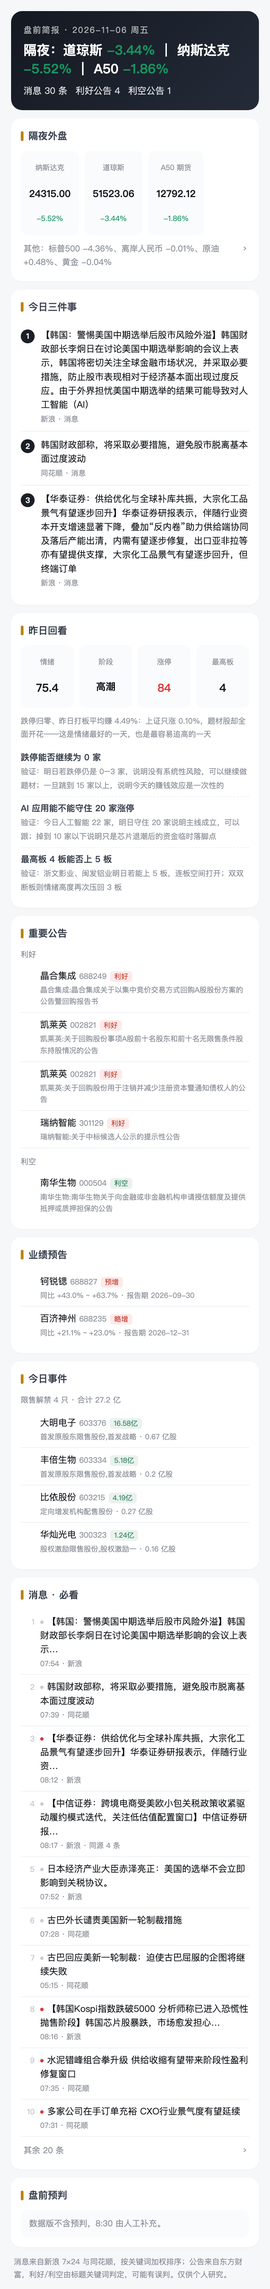
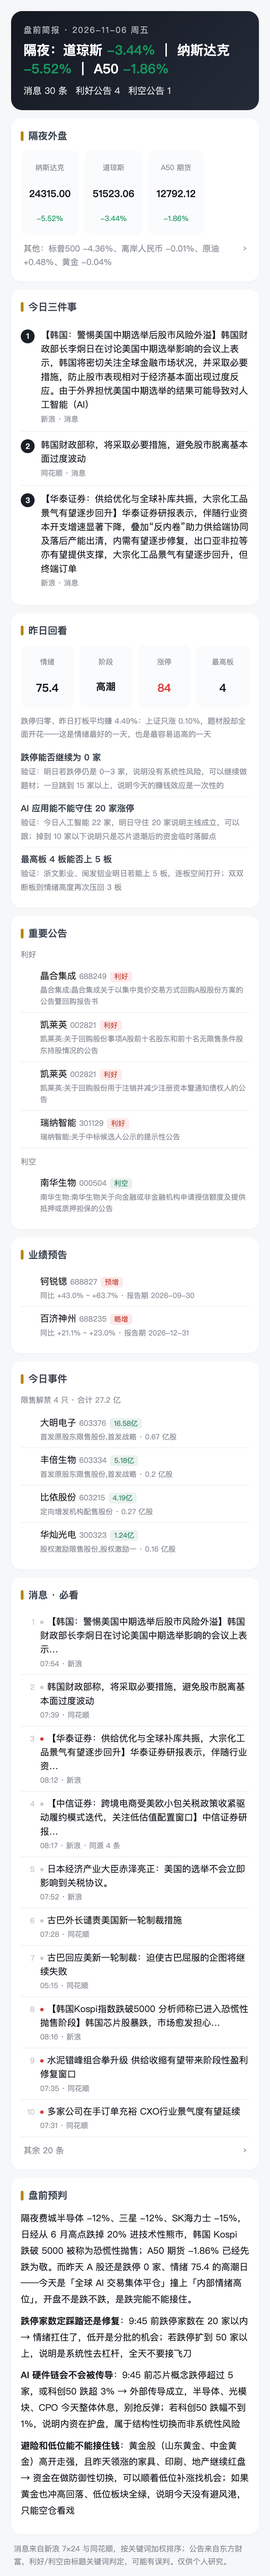
report: 2026-11-05

Changed region(s): [[0.0308, 0.0, 0.9538, 0.9976]]

diff --git a/pre/2026-11-06/2026-11-06-盘前.html b/pre/2026-11-06/2026-11-06-盘前.html
@@ -50,4 +50,4 @@ details.more[open]>summary .arw{transform:rotate(90deg)}
 display:flex;align-items:center;justify-content:center;font-weight:700;margin-top:2px}
 .t3 .t{font-size:13px;line-height:1.55;flex:1}
 .t3 .s{font-size:10.5px;color:#8a8f98;margin-top:2px}
-</style><link rel="manifest" href="/a-share-review/manifest.webmanifest"><meta name="theme-color" content="#1b1f27"><meta name="apple-mobile-web-app-capable" content="yes"><meta name="apple-mobile-web-app-status-bar-style" content="black-translucent"><meta name="apple-mobile-web-app-title" content="A股复盘"><link rel="apple-touch-icon" href="/a-share-review/icon-192.png"></head><body><div class="wrap"><div class="hero"><div class="d">盘前简报 · 2026-11-06 周五</div><h1>隔夜：道琼斯 <b class="down">-3.44%</b> ｜ 纳斯达克 <b class="down">-5.52%</b> ｜ A50 <b class="down">-1.86%</b></h1><div class="sum"><span>消息 30 条</span><span>利好公告 4</span><span>利空公告 1</span></div></div><div class="card"><h2>隔夜外盘</h2><div class="ov"><div><div class="n">纳斯达克</div><div class="v">24315.00</div><div class="p down">-5.52%</div></div><div><div class="n">道琼斯</div><div class="v">51523.06</div><div class="p down">-3.44%</div></div><div><div class="n">A50 期货</div><div class="v">12792.12</div><div class="p down">-1.86%</div></div></div><details class="more"><summary><span>其他：标普500 -4.36%、离岸人民币 -0.01%、原油 +0.48%、黄金 -0.04%</span><span class="arw">›</span></summary><div class="ov" style="margin-top:8px"><div><div class="n">标普500</div><div class="v">7353.73</div><div class="p down">-4.36%</div></div><div><div class="n">离岸人民币</div><div class="v">6.66</div><div class="p down">-0.01%</div></div><div><div class="n">原油</div><div class="v">90.95</div><div class="p up">+0.48%</div></div><div><div class="n">黄金</div><div class="v">4111.84</div><div class="p down">-0.04%</div></div></div></details></div><div class="card"><h2>今日三件事</h2><div class="t3"><div class="n">1</div><div><div class="t">【韩国：警惕美国中期选举后股市风险外溢】韩国财政部长李炯日在讨论美国中期选举影响的会议上表示，韩国将密切关注全球金融市场状况，并采取必要措施，防止股市表现相对于经济基本面出现过度反应。由于外界担忧美国中期选举的结果可能导致对人工智能（AI）</div><div class="s">新浪 · 消息</div></div></div><div class="t3"><div class="n">2</div><div><div class="t">韩国财政部称，将采取必要措施，避免股市脱离基本面过度波动</div><div class="s">同花顺 · 消息</div></div></div><div class="t3"><div class="n">3</div><div><div class="t">【华泰证券：供给优化与全球补库共振，大宗化工品景气有望逐步回升】华泰证券研报表示，伴随行业资本开支增速显著下降，叠加“反内卷”助力供给端协同及落后产能出清，内需有望逐步修复，出口亚非拉等亦有望提供支撑，大宗化工品景气有望逐步回升，但终端订单</div><div class="s">新浪 · 消息</div></div></div></div><div class="card"><h2>昨日回看</h2><div class="kv"><div><div class="n">情绪</div><div class="v">75.4</div></div><div><div class="n">阶段</div><div class="v" style="font-size:14px">高潮</div></div><div><div class="n">涨停</div><div class="v up">84</div></div><div><div class="n">最高板</div><div class="v">4</div></div></div><div class="note" style="margin-bottom:8px">跌停归零、昨日打板平均赚 4.49%：上证只涨 0.10%，题材股却全面开花——这是情绪最好的一天，也是最容易追高的一天</div><div class="watch"><b>跌停能否继续为 0 家</b><br><span class="note">验证：明日若跌停仍是 0–3 家，说明没有系统性风险，可以继续做题材；一旦跳到 15 家以上，说明今天的赚钱效应是一次性的</span></div><div class="watch"><b>AI 应用能不能守住 20 家涨停</b><br><span class="note">验证：今日人工智能 22 家，明日守住 20 家说明主线成立，可以跟；掉到 10 家以下说明只是芯片退潮后的资金临时落脚点</span></div><div class="watch"><b>最高板 4 板能否上 5 板</b><br><span class="note">验证：浙文影业、闽发铝业明日若能上 5 板，连板空间打开；双双断板则情绪高度再次压回 3 板</span></div></div><div class="card"><h2>重要公告</h2><div class="note" style="margin-bottom:4px">利好</div><div class="item"><div class="no"></div><div class="b"><div class="t">晶合集成 <span class="mut" style="font-size:11px">688249</span><span class="tag tag-good">利好</span></div><div class="m">晶合集成:晶合集成关于以集中竞价交易方式回购A股股份方案的公告暨回购报告书</div></div></div><div class="item"><div class="no"></div><div class="b"><div class="t">凯莱英 <span class="mut" style="font-size:11px">002821</span><span class="tag tag-good">利好</span></div><div class="m">凯莱英:关于回购股份事项A股前十名股东和前十名无限售条件股东持股情况的公告</div></div></div><div class="item"><div class="no"></div><div class="b"><div class="t">凯莱英 <span class="mut" style="font-size:11px">002821</span><span class="tag tag-good">利好</span></div><div class="m">凯莱英:关于回购股份用于注销并减少注册资本暨通知债权人的公告</div></div></div><div class="item"><div class="no"></div><div class="b"><div class="t">瑞纳智能 <span class="mut" style="font-size:11px">301129</span><span class="tag tag-good">利好</span></div><div class="m">瑞纳智能:关于中标候选人公示的提示性公告</div></div></div><div class="note" style="margin:10px 0 4px">利空</div><div class="item"><div class="no"></div><div class="b"><div class="t">南华生物 <span class="mut" style="font-size:11px">000504</span><span class="tag tag-bad">利空</span></div><div class="m">南华生物:南华生物关于向金融或非金融机构申请授信额度及提供抵押或质押担保的公告</div></div></div></div><div class="card"><h2>业绩预告</h2><div class="item"><div class="no"></div><div class="b"><div class="t">钶锐锶 <span class="mut" style="font-size:11px">688827</span><span class="tag tag-good">预增</span></div><div class="m">同比 +43.0% ~ +63.7% · 报告期 2026-09-30</div></div></div><div class="item"><div class="no"></div><div class="b"><div class="t">百济神州 <span class="mut" style="font-size:11px">688235</span><span class="tag tag-good">略增</span></div><div class="m">同比 +21.1% ~ +23.0% · 报告期 2026-12-31</div></div></div></div><div class="card"><h2>今日事件</h2><div class="note" style="margin-bottom:6px">限售解禁 4 只 · 合计 27.2 亿</div><div class="item"><div class="no"></div><div class="b"><div class="t">大明电子 <span class="mut" style="font-size:11px">603376</span><span class="tag tag-bad">16.58亿</span></div><div class="m">首发原股东限售股份,首发战略 · 0.67 亿股</div></div></div><div class="item"><div class="no"></div><div class="b"><div class="t">丰倍生物 <span class="mut" style="font-size:11px">603334</span><span class="tag tag-bad">5.18亿</span></div><div class="m">首发原股东限售股份,首发战略 · 0.2 亿股</div></div></div><div class="item"><div class="no"></div><div class="b"><div class="t">比依股份 <span class="mut" style="font-size:11px">603215</span><span class="tag tag-bad">4.19亿</span></div><div class="m">定向增发机构配售股份 · 0.27 亿股</div></div></div><div class="item"><div class="no"></div><div class="b"><div class="t">华灿光电 <span class="mut" style="font-size:11px">300323</span><span class="tag tag-bad">1.24亿</span></div><div class="m">股权激励限售股份,股权激励一 · 0.16 亿股</div></div></div></div><div class="card"><h2>消息 · 必看</h2><div class="item"><div class="no">1</div><div class="b"><div class="t"><span class="dot n"></span>【韩国：警惕美国中期选举后股市风险外溢】韩国财政部长李炯日在讨论美国中期选举影响的会议上表示…</div><div class="m">07:54 · 新浪</div></div></div><div class="item"><div class="no">2</div><div class="b"><div class="t"><span class="dot n"></span>韩国财政部称，将采取必要措施，避免股市脱离基本面过度波动</div><div class="m">07:39 · 同花顺</div></div></div><div class="item"><div class="no">3</div><div class="b"><div class="t"><span class="dot g"></span>【华泰证券：供给优化与全球补库共振，大宗化工品景气有望逐步回升】华泰证券研报表示，伴随行业资…</div><div class="m">08:12 · 新浪</div></div></div><div class="item"><div class="no">4</div><div class="b"><div class="t"><span class="dot n"></span>【中信证券：跨境电商受美欧小包关税政策收紧驱动履约模式迭代，关注低估值配置窗口】中信证券研报…</div><div class="m">08:17 · 新浪 · 同源 4 条</div></div></div><div class="item"><div class="no">5</div><div class="b"><div class="t"><span class="dot n"></span>日本经济产业大臣赤泽亮正：美国的选举不会立即影响到关税协议。</div><div class="m">07:52 · 新浪</div></div></div><div class="item"><div class="no">6</div><div class="b"><div class="t"><span class="dot n"></span>古巴外长谴责美国新一轮制裁措施</div><div class="m">07:28 · 同花顺</div></div></div><div class="item"><div class="no">7</div><div class="b"><div class="t"><span class="dot n"></span>古巴回应美新一轮制裁：迫使古巴屈服的企图将继续失败</div><div class="m">05:15 · 同花顺</div></div></div><div class="item"><div class="no">8</div><div class="b"><div class="t"><span class="dot g"></span>【韩国Kospi指数跌破5000 分析师称已进入恐慌性抛售阶段】韩国芯片股暴跌，市场愈发担心…</div><div class="m">08:16 · 新浪</div></div></div><div class="item"><div class="no">9</div><div class="b"><div class="t"><span class="dot g"></span>水泥错峰组合拳升级 供给收缩有望带来阶段性盈利修复窗口</div><div class="m">07:35 · 同花顺</div></div></div><div class="item"><div class="no">10</div><div class="b"><div class="t"><span class="dot g"></span>多家公司在手订单充裕 CXO行业景气度有望延续</div><div class="m">07:31 · 同花顺</div></div></div><details class="more"><summary><span>其余 20 条</span><span class="arw">›</span></summary><div class="item"><div class="no">11</div><div class="b"><div class="t"><span class="dot g"></span>OpenAI推出网络安全模型GPT-6 Cyber</div><div class="m">07:26 · 同花顺</div></div></div><div class="item"><div class="no">12</div><div class="b"><div class="t"><span class="dot g"></span>订单能见度提升 AI产业链迎来盈利兑现时刻</div><div class="m">07:20 · 同花顺</div></div></div><div class="item"><div class="no">13</div><div class="b"><div class="t"><span class="dot n"></span>三星电子、SK海力士在韩国Nextrade盘前交易中分别跌12%和15%</div><div class="m">07:10 · 同花顺</div></div></div><div class="item"><div class="no">14</div><div class="b"><div class="t"><span class="dot n"></span>美股收评：美股三大指数集体收跌</div><div class="m">05:00 · 同花顺</div></div></div><div class="item"><div class="no">15</div><div class="b"><div class="t"><span class="dot n"></span>费城半导体指数日内跌12%</div><div class="m">04:58 · 同花顺</div></div></div><div class="item"><div class="no">16</div><div class="b"><div class="t"><span class="dot g"></span>【得州候任州长：该州将出台法律保护公民免受数据中心的影响】得克萨斯州当选州长伊诺霍萨（Gin…</div><div class="m">08:14 · 新浪</div></div></div><div class="item"><div class="no">17</div><div class="b"><div class="t"><span class="dot g"></span>现货黄金突破4100美元/盎司，日内涨0.29%。</div><div class="m">08:06 · 新浪</div></div></div><div class="item"><div class="no">18</div><div class="b"><div class="t"><span class="dot g"></span>纽约期金突破4110美元/盎司，日内跌0.08%。</div><div class="m">08:06 · 新浪</div></div></div><div class="item"><div class="no">19</div><div class="b"><div class="t"><span class="dot g"></span>【我国高端镀膜装备实现重大突破 新景昇首台8.5代电致变色薄膜设备下线】据北京亦庄微信公众号…</div><div class="m">07:57 · 新浪</div></div></div><div class="item"><div class="no">20</div><div class="b"><div class="t"><span class="dot g"></span>【瑞浦兰钧将向凯傲中国体系供应叉车用锂电池电芯、模组】11月6日，据瑞浦兰钧消息，瑞浦兰钧能…</div><div class="m">07:56 · 新浪</div></div></div><div class="item"><div class="no">21</div><div class="b"><div class="t"><span class="dot g"></span>得克萨斯州候任州长：在出台保护德州民众的相关举措前，我们必须叫停当前的数据中心项目</div><div class="m">07:54 · 同花顺</div></div></div><div class="item"><div class="no">22</div><div class="b"><div class="t"><span class="dot g"></span>【中信建投：医疗器械板块业绩拐点已现 看好2027年投资机会】中信建投研报称，受耗材集采、医…</div><div class="m">07:51 · 新浪</div></div></div><div class="item"><div class="no">23</div><div class="b"><div class="t"><span class="dot g"></span>得克萨斯州州长当选人吉娜·伊诺霍萨：我们可以按我们的条件与马斯克及其公司建立强劲合作关系。</div><div class="m">07:46 · 新浪</div></div></div><div class="item"><div class="no">24</div><div class="b"><div class="t"><span class="dot g"></span>【电子布价格近期再度走高 供需偏紧情况或将延续】电子布价格近期再度走高，且本轮电子布涨价的频…</div><div class="m">07:41 · 新浪</div></div></div><div class="item"><div class="no">25</div><div class="b"><div class="t"><span class="dot g"></span>年内二永债发行规模逼近2万亿元 同比增长10.7%</div><div class="m">07:24 · 同花顺</div></div></div><div class="item"><div class="no">26</div><div class="b"><div class="t"><span class="dot g"></span>梅拉尼娅称俄乌奥列什基停火期间撤离近800名居民</div><div class="m">03:38 · 同花顺</div></div></div><div class="item"><div class="no">27</div><div class="b"><div class="t"><span class="dot g"></span>联合国环境署：流向发展中国家气候适应资金增长放缓</div><div class="m">03:15 · 同花顺</div></div></div><div class="item"><div class="no">28</div><div class="b"><div class="t"><span class="dot g"></span>安理会就下任联合国秘书长遴选举行第八轮意向性投票</div><div class="m">03:11 · 同花顺</div></div></div><div class="item"><div class="no">29</div><div class="b"><div class="t"><span class="dot g"></span>伊朗安全官员向普京转达伊最高领袖讯息</div><div class="m">02:08 · 同花顺</div></div></div><div class="item"><div class="no">30</div><div class="b"><div class="t"><span class="dot n"></span>由于人工智能相关股票抛售加剧，日本日经指数较6月高点下跌20%。</div><div class="m">08:15 · 新浪</div></div></div></details></div><div class="card"><h2>盘前预判</h2><div class="empty">数据版不含预判，8:30 由人工补充。</div></div><div class="note" style="padding:0 4px">消息来自新浪 7×24 与同花顺，按关键词加权排序；公告来自东方财富，利好/利空由标题关键词判定，可能有误判。仅供个人研究。</div></div></body></html>
+</style><link rel="manifest" href="/a-share-review/manifest.webmanifest"><meta name="theme-color" content="#1b1f27"><meta name="apple-mobile-web-app-capable" content="yes"><meta name="apple-mobile-web-app-status-bar-style" content="black-translucent"><meta name="apple-mobile-web-app-title" content="A股复盘"><link rel="apple-touch-icon" href="/a-share-review/icon-192.png"></head><body><div class="wrap"><div class="hero"><div class="d">盘前简报 · 2026-11-06 周五</div><h1>隔夜：道琼斯 <b class="down">-3.44%</b> ｜ 纳斯达克 <b class="down">-5.52%</b> ｜ A50 <b class="down">-1.86%</b></h1><div class="sum"><span>消息 30 条</span><span>利好公告 4</span><span>利空公告 1</span></div></div><div class="card"><h2>隔夜外盘</h2><div class="ov"><div><div class="n">纳斯达克</div><div class="v">24315.00</div><div class="p down">-5.52%</div></div><div><div class="n">道琼斯</div><div class="v">51523.06</div><div class="p down">-3.44%</div></div><div><div class="n">A50 期货</div><div class="v">12792.12</div><div class="p down">-1.86%</div></div></div><details class="more"><summary><span>其他：标普500 -4.36%、离岸人民币 -0.01%、原油 +0.48%、黄金 -0.04%</span><span class="arw">›</span></summary><div class="ov" style="margin-top:8px"><div><div class="n">标普500</div><div class="v">7353.73</div><div class="p down">-4.36%</div></div><div><div class="n">离岸人民币</div><div class="v">6.66</div><div class="p down">-0.01%</div></div><div><div class="n">原油</div><div class="v">90.95</div><div class="p up">+0.48%</div></div><div><div class="n">黄金</div><div class="v">4111.84</div><div class="p down">-0.04%</div></div></div></details></div><div class="card"><h2>今日三件事</h2><div class="t3"><div class="n">1</div><div><div class="t">【韩国：警惕美国中期选举后股市风险外溢】韩国财政部长李炯日在讨论美国中期选举影响的会议上表示，韩国将密切关注全球金融市场状况，并采取必要措施，防止股市表现相对于经济基本面出现过度反应。由于外界担忧美国中期选举的结果可能导致对人工智能（AI）</div><div class="s">新浪 · 消息</div></div></div><div class="t3"><div class="n">2</div><div><div class="t">韩国财政部称，将采取必要措施，避免股市脱离基本面过度波动</div><div class="s">同花顺 · 消息</div></div></div><div class="t3"><div class="n">3</div><div><div class="t">【华泰证券：供给优化与全球补库共振，大宗化工品景气有望逐步回升】华泰证券研报表示，伴随行业资本开支增速显著下降，叠加“反内卷”助力供给端协同及落后产能出清，内需有望逐步修复，出口亚非拉等亦有望提供支撑，大宗化工品景气有望逐步回升，但终端订单</div><div class="s">新浪 · 消息</div></div></div></div><div class="card"><h2>昨日回看</h2><div class="kv"><div><div class="n">情绪</div><div class="v">75.4</div></div><div><div class="n">阶段</div><div class="v" style="font-size:14px">高潮</div></div><div><div class="n">涨停</div><div class="v up">84</div></div><div><div class="n">最高板</div><div class="v">4</div></div></div><div class="note" style="margin-bottom:8px">跌停归零、昨日打板平均赚 4.49%：上证只涨 0.10%，题材股却全面开花——这是情绪最好的一天，也是最容易追高的一天</div><div class="watch"><b>跌停能否继续为 0 家</b><br><span class="note">验证：明日若跌停仍是 0–3 家，说明没有系统性风险，可以继续做题材；一旦跳到 15 家以上，说明今天的赚钱效应是一次性的</span></div><div class="watch"><b>AI 应用能不能守住 20 家涨停</b><br><span class="note">验证：今日人工智能 22 家，明日守住 20 家说明主线成立，可以跟；掉到 10 家以下说明只是芯片退潮后的资金临时落脚点</span></div><div class="watch"><b>最高板 4 板能否上 5 板</b><br><span class="note">验证：浙文影业、闽发铝业明日若能上 5 板，连板空间打开；双双断板则情绪高度再次压回 3 板</span></div></div><div class="card"><h2>重要公告</h2><div class="note" style="margin-bottom:4px">利好</div><div class="item"><div class="no"></div><div class="b"><div class="t">晶合集成 <span class="mut" style="font-size:11px">688249</span><span class="tag tag-good">利好</span></div><div class="m">晶合集成:晶合集成关于以集中竞价交易方式回购A股股份方案的公告暨回购报告书</div></div></div><div class="item"><div class="no"></div><div class="b"><div class="t">凯莱英 <span class="mut" style="font-size:11px">002821</span><span class="tag tag-good">利好</span></div><div class="m">凯莱英:关于回购股份事项A股前十名股东和前十名无限售条件股东持股情况的公告</div></div></div><div class="item"><div class="no"></div><div class="b"><div class="t">凯莱英 <span class="mut" style="font-size:11px">002821</span><span class="tag tag-good">利好</span></div><div class="m">凯莱英:关于回购股份用于注销并减少注册资本暨通知债权人的公告</div></div></div><div class="item"><div class="no"></div><div class="b"><div class="t">瑞纳智能 <span class="mut" style="font-size:11px">301129</span><span class="tag tag-good">利好</span></div><div class="m">瑞纳智能:关于中标候选人公示的提示性公告</div></div></div><div class="note" style="margin:10px 0 4px">利空</div><div class="item"><div class="no"></div><div class="b"><div class="t">南华生物 <span class="mut" style="font-size:11px">000504</span><span class="tag tag-bad">利空</span></div><div class="m">南华生物:南华生物关于向金融或非金融机构申请授信额度及提供抵押或质押担保的公告</div></div></div></div><div class="card"><h2>业绩预告</h2><div class="item"><div class="no"></div><div class="b"><div class="t">钶锐锶 <span class="mut" style="font-size:11px">688827</span><span class="tag tag-good">预增</span></div><div class="m">同比 +43.0% ~ +63.7% · 报告期 2026-09-30</div></div></div><div class="item"><div class="no"></div><div class="b"><div class="t">百济神州 <span class="mut" style="font-size:11px">688235</span><span class="tag tag-good">略增</span></div><div class="m">同比 +21.1% ~ +23.0% · 报告期 2026-12-31</div></div></div></div><div class="card"><h2>今日事件</h2><div class="note" style="margin-bottom:6px">限售解禁 4 只 · 合计 27.2 亿</div><div class="item"><div class="no"></div><div class="b"><div class="t">大明电子 <span class="mut" style="font-size:11px">603376</span><span class="tag tag-bad">16.58亿</span></div><div class="m">首发原股东限售股份,首发战略 · 0.67 亿股</div></div></div><div class="item"><div class="no"></div><div class="b"><div class="t">丰倍生物 <span class="mut" style="font-size:11px">603334</span><span class="tag tag-bad">5.18亿</span></div><div class="m">首发原股东限售股份,首发战略 · 0.2 亿股</div></div></div><div class="item"><div class="no"></div><div class="b"><div class="t">比依股份 <span class="mut" style="font-size:11px">603215</span><span class="tag tag-bad">4.19亿</span></div><div class="m">定向增发机构配售股份 · 0.27 亿股</div></div></div><div class="item"><div class="no"></div><div class="b"><div class="t">华灿光电 <span class="mut" style="font-size:11px">300323</span><span class="tag tag-bad">1.24亿</span></div><div class="m">股权激励限售股份,股权激励一 · 0.16 亿股</div></div></div></div><div class="card"><h2>消息 · 必看</h2><div class="item"><div class="no">1</div><div class="b"><div class="t"><span class="dot n"></span>【韩国：警惕美国中期选举后股市风险外溢】韩国财政部长李炯日在讨论美国中期选举影响的会议上表示…</div><div class="m">07:54 · 新浪</div></div></div><div class="item"><div class="no">2</div><div class="b"><div class="t"><span class="dot n"></span>韩国财政部称，将采取必要措施，避免股市脱离基本面过度波动</div><div class="m">07:39 · 同花顺</div></div></div><div class="item"><div class="no">3</div><div class="b"><div class="t"><span class="dot g"></span>【华泰证券：供给优化与全球补库共振，大宗化工品景气有望逐步回升】华泰证券研报表示，伴随行业资…</div><div class="m">08:12 · 新浪</div></div></div><div class="item"><div class="no">4</div><div class="b"><div class="t"><span class="dot n"></span>【中信证券：跨境电商受美欧小包关税政策收紧驱动履约模式迭代，关注低估值配置窗口】中信证券研报…</div><div class="m">08:17 · 新浪 · 同源 4 条</div></div></div><div class="item"><div class="no">5</div><div class="b"><div class="t"><span class="dot n"></span>日本经济产业大臣赤泽亮正：美国的选举不会立即影响到关税协议。</div><div class="m">07:52 · 新浪</div></div></div><div class="item"><div class="no">6</div><div class="b"><div class="t"><span class="dot n"></span>古巴外长谴责美国新一轮制裁措施</div><div class="m">07:28 · 同花顺</div></div></div><div class="item"><div class="no">7</div><div class="b"><div class="t"><span class="dot n"></span>古巴回应美新一轮制裁：迫使古巴屈服的企图将继续失败</div><div class="m">05:15 · 同花顺</div></div></div><div class="item"><div class="no">8</div><div class="b"><div class="t"><span class="dot g"></span>【韩国Kospi指数跌破5000 分析师称已进入恐慌性抛售阶段】韩国芯片股暴跌，市场愈发担心…</div><div class="m">08:16 · 新浪</div></div></div><div class="item"><div class="no">9</div><div class="b"><div class="t"><span class="dot g"></span>水泥错峰组合拳升级 供给收缩有望带来阶段性盈利修复窗口</div><div class="m">07:35 · 同花顺</div></div></div><div class="item"><div class="no">10</div><div class="b"><div class="t"><span class="dot g"></span>多家公司在手订单充裕 CXO行业景气度有望延续</div><div class="m">07:31 · 同花顺</div></div></div><details class="more"><summary><span>其余 20 条</span><span class="arw">›</span></summary><div class="item"><div class="no">11</div><div class="b"><div class="t"><span class="dot g"></span>OpenAI推出网络安全模型GPT-6 Cyber</div><div class="m">07:26 · 同花顺</div></div></div><div class="item"><div class="no">12</div><div class="b"><div class="t"><span class="dot g"></span>订单能见度提升 AI产业链迎来盈利兑现时刻</div><div class="m">07:20 · 同花顺</div></div></div><div class="item"><div class="no">13</div><div class="b"><div class="t"><span class="dot n"></span>三星电子、SK海力士在韩国Nextrade盘前交易中分别跌12%和15%</div><div class="m">07:10 · 同花顺</div></div></div><div class="item"><div class="no">14</div><div class="b"><div class="t"><span class="dot n"></span>美股收评：美股三大指数集体收跌</div><div class="m">05:00 · 同花顺</div></div></div><div class="item"><div class="no">15</div><div class="b"><div class="t"><span class="dot n"></span>费城半导体指数日内跌12%</div><div class="m">04:58 · 同花顺</div></div></div><div class="item"><div class="no">16</div><div class="b"><div class="t"><span class="dot g"></span>【得州候任州长：该州将出台法律保护公民免受数据中心的影响】得克萨斯州当选州长伊诺霍萨（Gin…</div><div class="m">08:14 · 新浪</div></div></div><div class="item"><div class="no">17</div><div class="b"><div class="t"><span class="dot g"></span>现货黄金突破4100美元/盎司，日内涨0.29%。</div><div class="m">08:06 · 新浪</div></div></div><div class="item"><div class="no">18</div><div class="b"><div class="t"><span class="dot g"></span>纽约期金突破4110美元/盎司，日内跌0.08%。</div><div class="m">08:06 · 新浪</div></div></div><div class="item"><div class="no">19</div><div class="b"><div class="t"><span class="dot g"></span>【我国高端镀膜装备实现重大突破 新景昇首台8.5代电致变色薄膜设备下线】据北京亦庄微信公众号…</div><div class="m">07:57 · 新浪</div></div></div><div class="item"><div class="no">20</div><div class="b"><div class="t"><span class="dot g"></span>【瑞浦兰钧将向凯傲中国体系供应叉车用锂电池电芯、模组】11月6日，据瑞浦兰钧消息，瑞浦兰钧能…</div><div class="m">07:56 · 新浪</div></div></div><div class="item"><div class="no">21</div><div class="b"><div class="t"><span class="dot g"></span>得克萨斯州候任州长：在出台保护德州民众的相关举措前，我们必须叫停当前的数据中心项目</div><div class="m">07:54 · 同花顺</div></div></div><div class="item"><div class="no">22</div><div class="b"><div class="t"><span class="dot g"></span>【中信建投：医疗器械板块业绩拐点已现 看好2027年投资机会】中信建投研报称，受耗材集采、医…</div><div class="m">07:51 · 新浪</div></div></div><div class="item"><div class="no">23</div><div class="b"><div class="t"><span class="dot g"></span>得克萨斯州州长当选人吉娜·伊诺霍萨：我们可以按我们的条件与马斯克及其公司建立强劲合作关系。</div><div class="m">07:46 · 新浪</div></div></div><div class="item"><div class="no">24</div><div class="b"><div class="t"><span class="dot g"></span>【电子布价格近期再度走高 供需偏紧情况或将延续】电子布价格近期再度走高，且本轮电子布涨价的频…</div><div class="m">07:41 · 新浪</div></div></div><div class="item"><div class="no">25</div><div class="b"><div class="t"><span class="dot g"></span>年内二永债发行规模逼近2万亿元 同比增长10.7%</div><div class="m">07:24 · 同花顺</div></div></div><div class="item"><div class="no">26</div><div class="b"><div class="t"><span class="dot g"></span>梅拉尼娅称俄乌奥列什基停火期间撤离近800名居民</div><div class="m">03:38 · 同花顺</div></div></div><div class="item"><div class="no">27</div><div class="b"><div class="t"><span class="dot g"></span>联合国环境署：流向发展中国家气候适应资金增长放缓</div><div class="m">03:15 · 同花顺</div></div></div><div class="item"><div class="no">28</div><div class="b"><div class="t"><span class="dot g"></span>安理会就下任联合国秘书长遴选举行第八轮意向性投票</div><div class="m">03:11 · 同花顺</div></div></div><div class="item"><div class="no">29</div><div class="b"><div class="t"><span class="dot g"></span>伊朗安全官员向普京转达伊最高领袖讯息</div><div class="m">02:08 · 同花顺</div></div></div><div class="item"><div class="no">30</div><div class="b"><div class="t"><span class="dot n"></span>由于人工智能相关股票抛售加剧，日本日经指数较6月高点下跌20%。</div><div class="m">08:15 · 新浪</div></div></div></details></div><div class="card"><h2>盘前预判</h2><div class="jd"><p>隔夜费城半导体 -12%、三星 -12%、SK海力士 -15%，日经从 6 月高点跌掉 20% 进技术性熊市，韩国 Kospi 跌破 5000 被称为恐慌性抛售；A50 期货 -1.86% 已经先跌为敬。而昨天 A 股还是跌停 0 家、情绪 75.4 的高潮日——今天是「全球 AI 交易集体平仓」撞上「内部情绪高位」，开盘不是跌不跌，是跌完能不能接住。</p><p><b>跌停家数定踩踏还是修复</b>：9:45 前跌停家数在 20 家以内 → 情绪扛住了，低开是分批的机会；若跌停扩到 50 家以上，说明是系统性去杠杆，全天不要接飞刀</p><p><b>AI 硬件链会不会被传导</b>：9:45 前芯片概念跌停超过 5 家，或科创50 跌超 3% → 外部传导成立，半导体、光模块、CPO 今天整体休息，别抢反弹；若科创50 跌幅不到 1%，说明内资在护盘，属于结构性切换而非系统性风险</p><p><b>避险和低位能不能接住钱</b>：黄金股（山东黄金、中金黄金）高开走强，且昨天领涨的家具、印刷、地产继续红盘 → 资金在做防御性切换，可以顺着低位补涨找机会；如果黄金也冲高回落、低位板块全绿，说明今天没有避风港，只能空仓看戏</p></div></div><div class="note" style="padding:0 4px">消息来自新浪 7×24 与同花顺，按关键词加权排序；公告来自东方财富，利好/利空由标题关键词判定，可能有误判。仅供个人研究。</div></div></body></html>

diff --git a/pre/index.html b/pre/index.html
@@ -47,6 +47,6 @@ padding-bottom:env(safe-area-inset-bottom)}
 .tabbar a.on::after{content:"";display:block;width:18px;height:2.5px;border-radius:2px;background:var(--gold);margin:5px auto 0}
 </style><link rel="manifest" href="/a-share-review/manifest.webmanifest"><meta name="theme-color" content="#1b1f27"><meta name="apple-mobile-web-app-capable" content="yes"><meta name="apple-mobile-web-app-status-bar-style" content="black-translucent"><meta name="apple-mobile-web-app-title" content="A股复盘"><link rel="apple-touch-icon" href="/a-share-review/icon-192.png"></head><body><div class="wrap">
 <div class="head"><h1>盘前简报</h1><div class="sub">共 5 篇 · 交易日 08:20</div></div>
-<a class="hero" href="2026-11-06/2026-11-06-盘前.html?v=1793924408"><div class="ht">最新盘前 · 2026-11-06</div><div class="hrow"><div><div class="hn">纳指</div><div class="hv down">-5.52%</div></div><div><div class="hn">道指</div><div class="hv down">-3.44%</div></div><div><div class="hn">A50</div><div class="hv down">-1.86%</div></div><div><div class="hn">消息</div><div class="hv">30</div></div></div><div class="hb">点开看完整盘前简报 →</div></a>
-<details class="month" open><summary><span><b>2026-11</b>　5 篇</span><span class="arw">›</span></summary><div class="list"><a class="row" href="2026-11-06/2026-11-06-盘前.html?v=1793924408"><div class="rl"><div class="rd">11-06</div><div class="rw">周五</div></div><div class="rm"><span class="k down">纳指 -5.52%</span><span class="k2">30 条消息</span></div></a><a class="row" href="2026-11-05/2026-11-05-盘前.html?v=1793847882"><div class="rl"><div class="rd">11-05</div><div class="rw">周四</div></div><div class="rm"><span class="k up">纳指 +1.44%</span><span class="k2">18 条消息</span><span class="tag2">预判</span></div></a><a class="row" href="2026-11-04/2026-11-04-盘前.html?v=1793752215"><div class="rl"><div class="rd">11-04</div><div class="rw">周三</div></div><div class="rm"><span class="k up">纳指 +0.83%</span><span class="k2">30 条消息</span><span class="tag2">预判</span></div></a><a class="row" href="2026-11-03/2026-11-03-盘前.html?v=1793685654"><div class="rl"><div class="rd">11-03</div><div class="rw">周二</div></div><div class="rm"><span class="k down">纳指 -1.07%</span><span class="k2">30 条消息</span><span class="tag2">预判</span></div></a><a class="row" href="2026-11-02/2026-11-02-盘前.html?v=1793613369"><div class="rl"><div class="rd">11-02</div><div class="rw">周一</div></div><div class="rm"><span class="k down">纳指 -2.86%</span><span class="k2">30 条消息</span></div></a></div></details>
+<a class="hero" href="2026-11-06/2026-11-06-盘前.html?v=1793925015"><div class="ht">最新盘前 · 2026-11-06</div><div class="hrow"><div><div class="hn">纳指</div><div class="hv down">-5.52%</div></div><div><div class="hn">道指</div><div class="hv down">-3.44%</div></div><div><div class="hn">A50</div><div class="hv down">-1.86%</div></div><div><div class="hn">消息</div><div class="hv">30</div></div></div><div class="hj">隔夜费城半导体 -12%、三星 -12%、SK海力士 -15%，日经从 6 月高点跌掉 20% 进技术性熊市，韩国 Ko</div><div class="hb">点开看完整盘前简报 →</div></a>
+<details class="month" open><summary><span><b>2026-11</b>　5 篇</span><span class="arw">›</span></summary><div class="list"><a class="row" href="2026-11-06/2026-11-06-盘前.html?v=1793925015"><div class="rl"><div class="rd">11-06</div><div class="rw">周五</div></div><div class="rm"><span class="k down">纳指 -5.52%</span><span class="k2">30 条消息</span><span class="tag2">预判</span></div></a><a class="row" href="2026-11-05/2026-11-05-盘前.html?v=1793847882"><div class="rl"><div class="rd">11-05</div><div class="rw">周四</div></div><div class="rm"><span class="k up">纳指 +1.44%</span><span class="k2">18 条消息</span><span class="tag2">预判</span></div></a><a class="row" href="2026-11-04/2026-11-04-盘前.html?v=1793752215"><div class="rl"><div class="rd">11-04</div><div class="rw">周三</div></div><div class="rm"><span class="k up">纳指 +0.83%</span><span class="k2">30 条消息</span><span class="tag2">预判</span></div></a><a class="row" href="2026-11-03/2026-11-03-盘前.html?v=1793685654"><div class="rl"><div class="rd">11-03</div><div class="rw">周二</div></div><div class="rm"><span class="k down">纳指 -1.07%</span><span class="k2">30 条消息</span><span class="tag2">预判</span></div></a><a class="row" href="2026-11-02/2026-11-02-盘前.html?v=1793613369"><div class="rl"><div class="rd">11-02</div><div class="rw">周一</div></div><div class="rm"><span class="k down">纳指 -2.86%</span><span class="k2">30 条消息</span></div></a></div></details>
 </div><div class="tabbar"><a href="../index.html">每日复盘</a><a href="index.html" class="on">盘前简报</a><a href="../earn/index.html">业绩追踪</a></div></body></html>

diff --git a/index.html b/index.html
@@ -140,7 +140,7 @@ padding-bottom:env(safe-area-inset-bottom)}
   </div>
 </a></div></details>
 <div class="foot">数据与判断仅供个人研究，不构成投资建议<br>
-生成于 2026-11-06 08:20</div>
+生成于 2026-11-06 08:30</div>
 <div class="tabbar"><a href="index.html" class="on">每日复盘</a><a href="pre/index.html">盘前简报</a><a href="earn/index.html">业绩追踪</a></div>
 </div>
 <script>

diff --git a/pre/2026-11-06/2026-11-06-盘前.md b/pre/2026-11-06/2026-11-06-盘前.md
@@ -83,4 +83,8 @@
 
 ## 盘前预判
 
-> 8:30 由人工补充（数据版不含预判）。
+隔夜费城半导体 -12%、三星 -12%、SK海力士 -15%，日经从 6 月高点跌掉 20% 进技术性熊市，韩国 Kospi 跌破 5000 被称为恐慌性抛售；A50 期货 -1.86% 已经先跌为敬。而昨天 A 股还是跌停 0 家、情绪 75.4 的高潮日——今天是「全球 AI 交易集体平仓」撞上「内部情绪高位」，开盘不是跌不跌，是跌完能不能接住。
+
+- **跌停家数定踩踏还是修复**：9:45 前跌停家数在 20 家以内 → 情绪扛住了，低开是分批的机会；若跌停扩到 50 家以上，说明是系统性去杠杆，全天不要接飞刀
+- **AI 硬件链会不会被传导**：9:45 前芯片概念跌停超过 5 家，或科创50 跌超 3% → 外部传导成立，半导体、光模块、CPO 今天整体休息，别抢反弹；若科创50 跌幅不到 1%，说明内资在护盘，属于结构性切换而非系统性风险
+- **避险和低位能不能接住钱**：黄金股（山东黄金、中金黄金）高开走强，且昨天领涨的家具、印刷、地产继续红盘 → 资金在做防御性切换，可以顺着低位补涨找机会；如果黄金也冲高回落、低位板块全绿，说明今天没有避风港，只能空仓看戏
